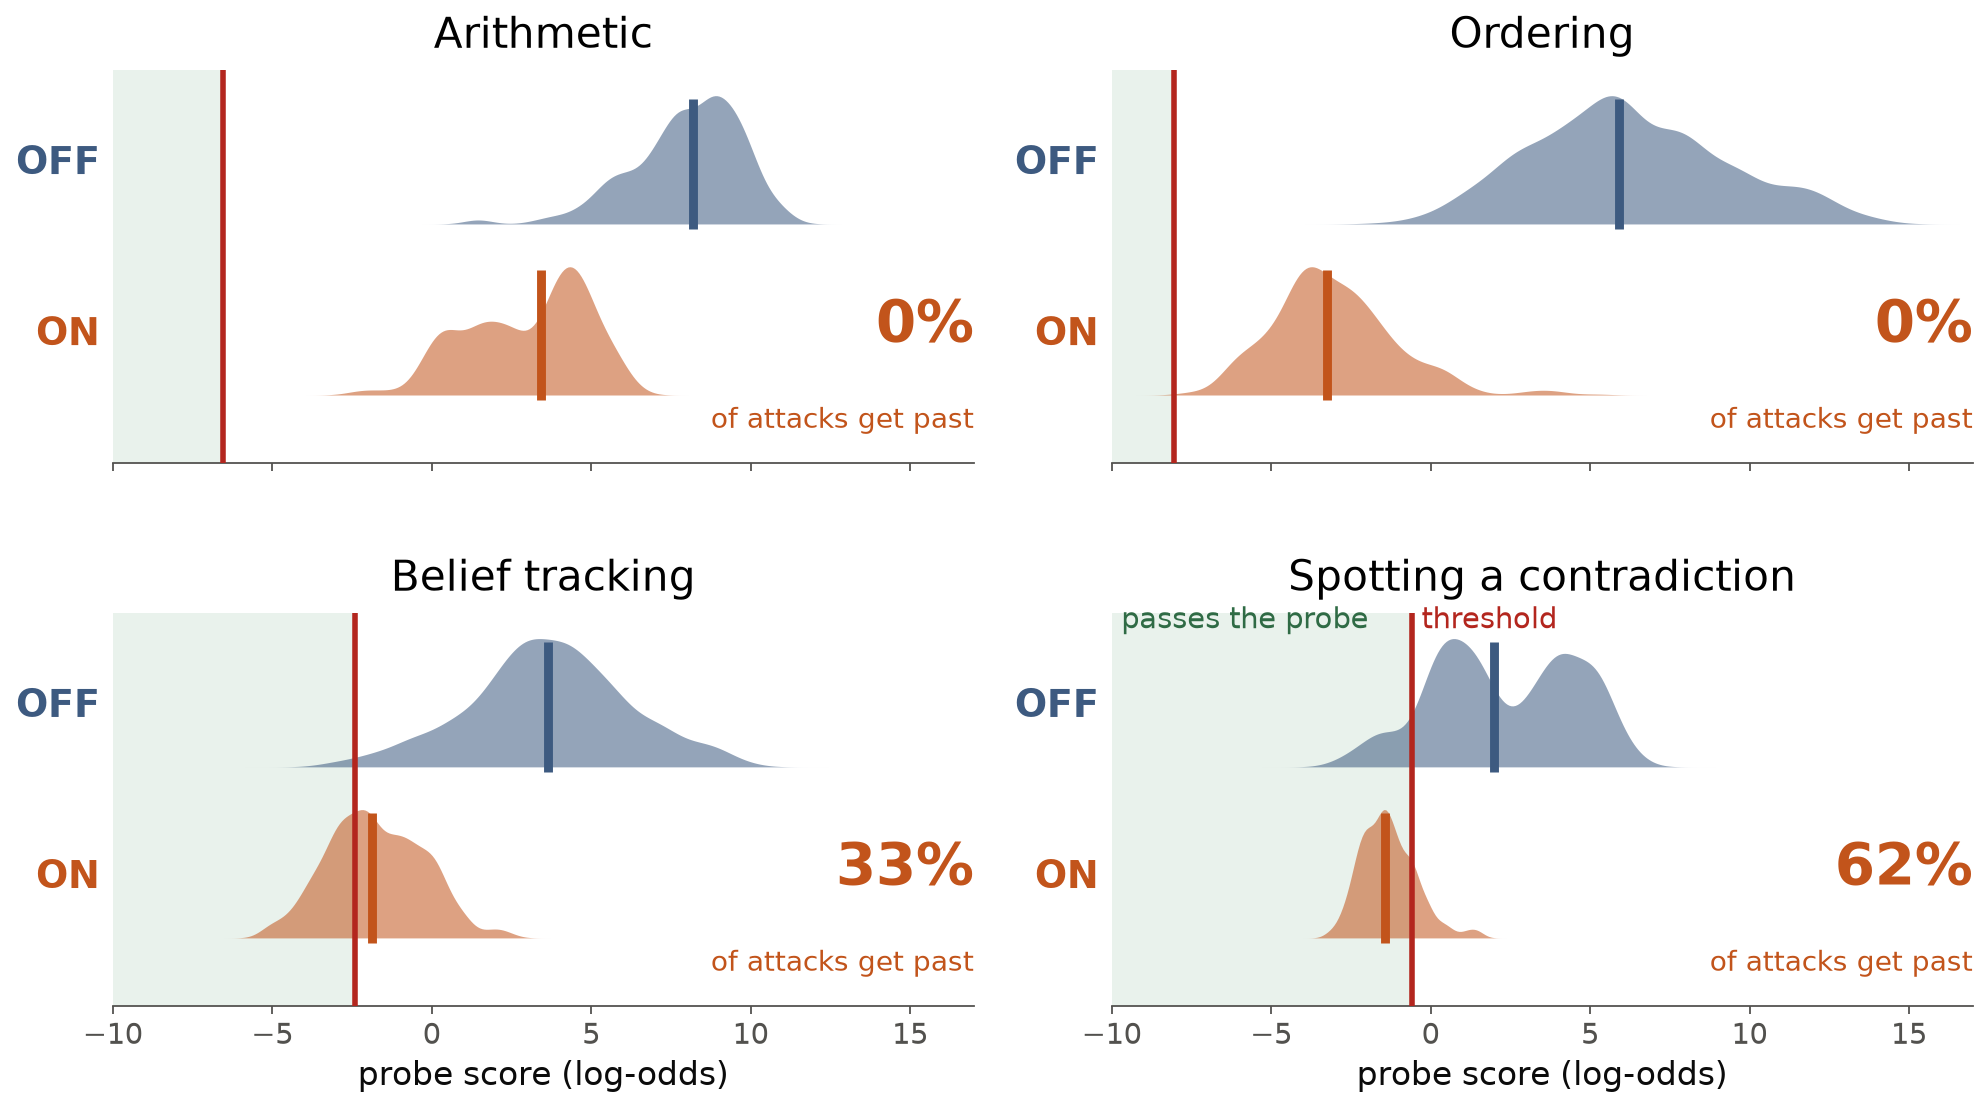
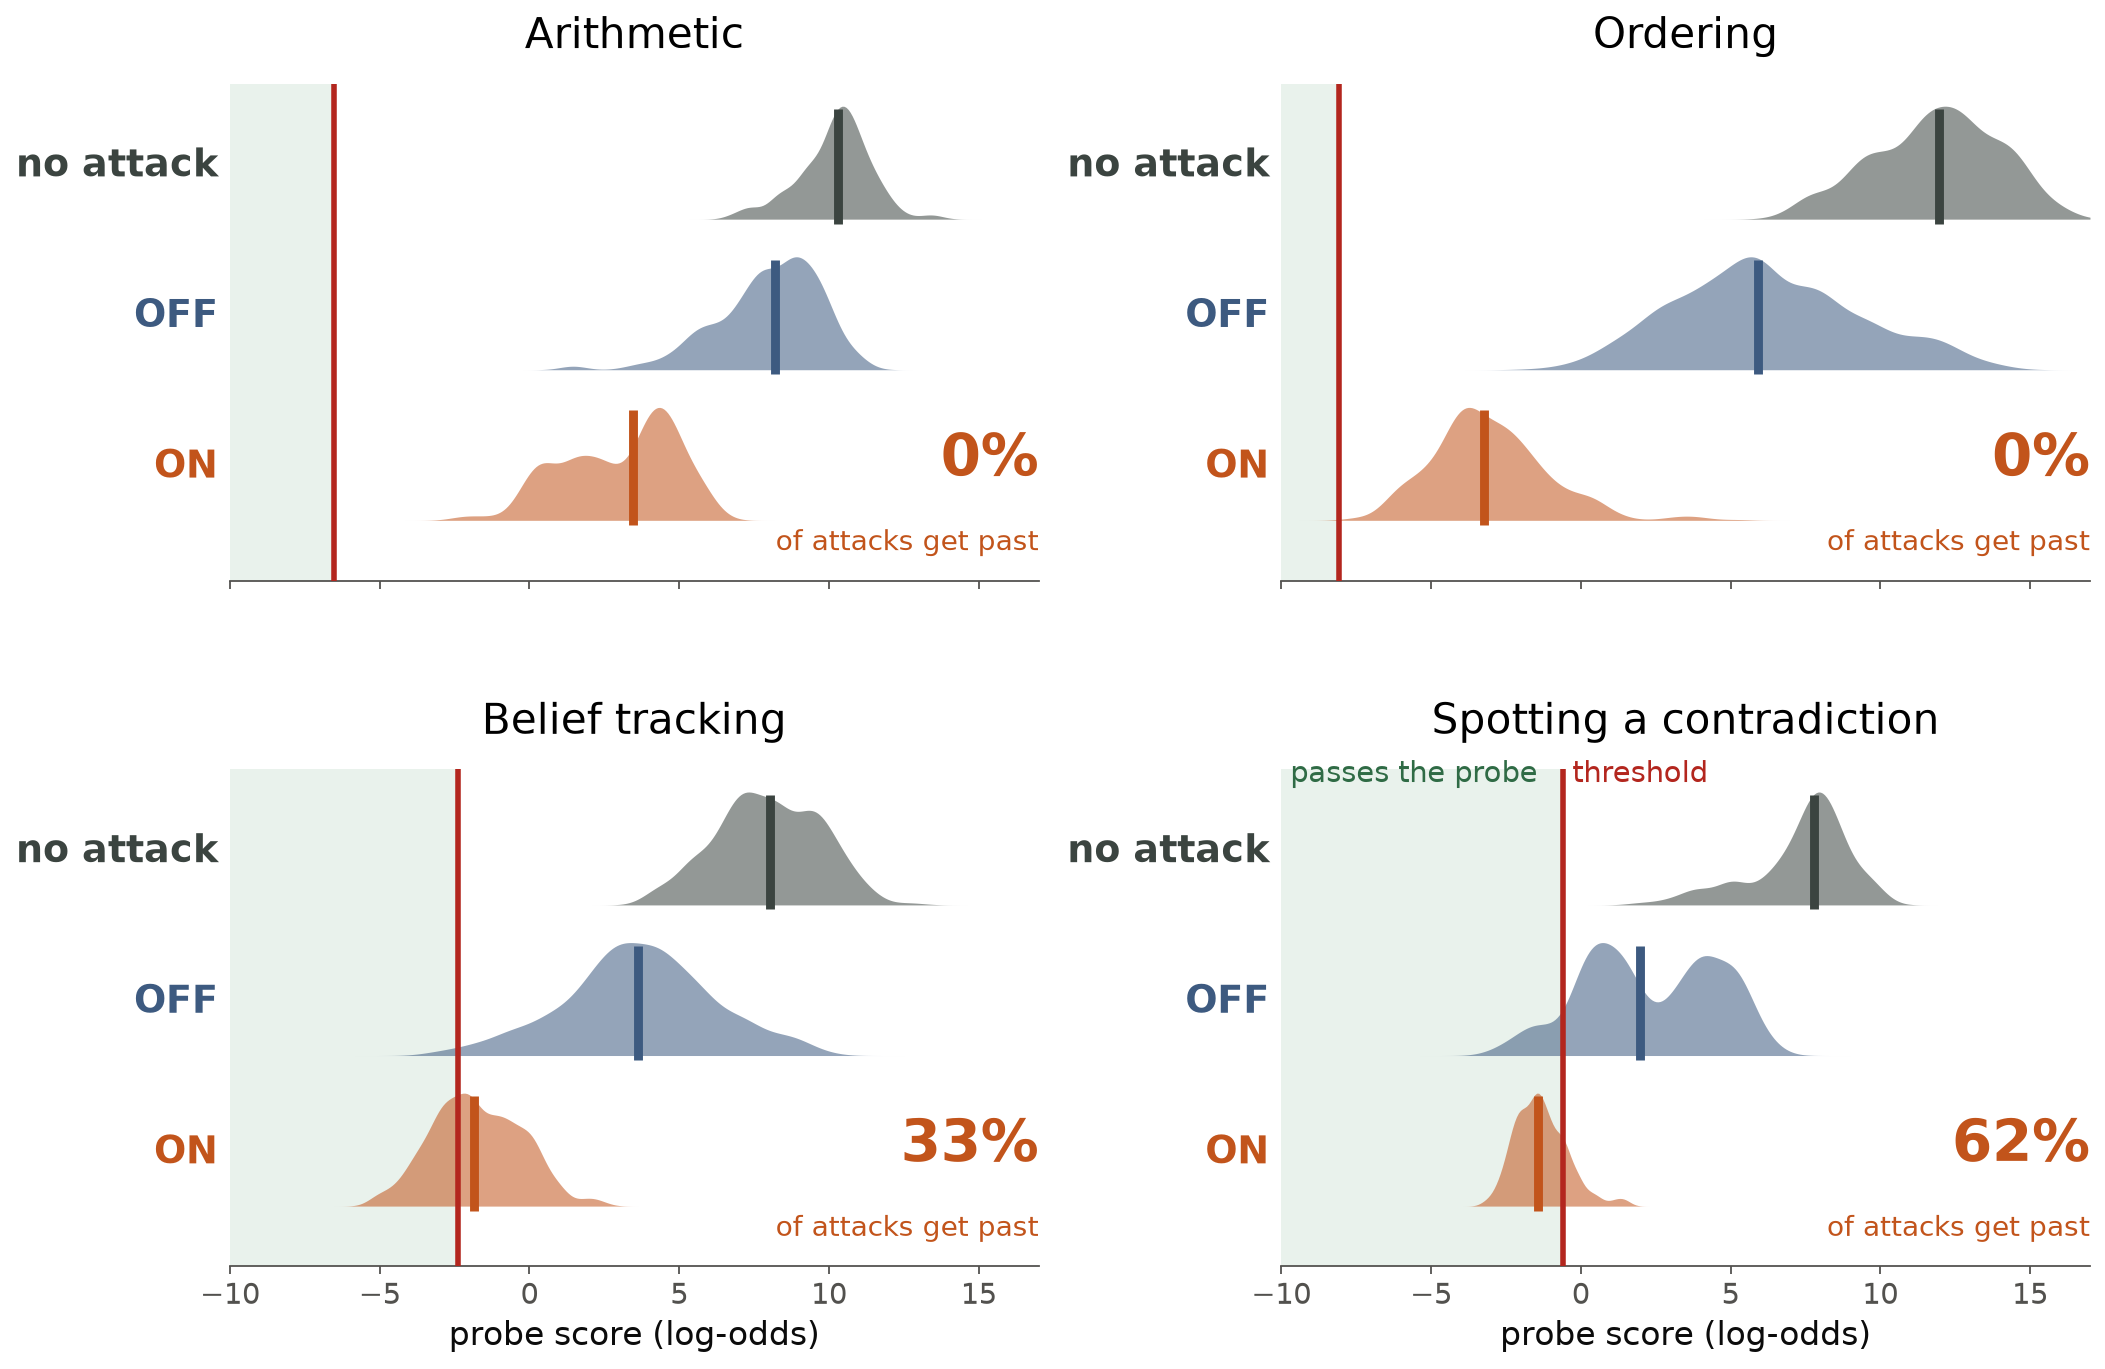
Dot plots: add the unattacked ('no attack') answers as a top row

diff --git a/analysis/post_v9/fig_dots.py b/analysis/post_v9/fig_dots.py
@@ -23,7 +23,7 @@ M45, M49 = DOTS.M45, Path("missions/m49_new_task_toggle/runs")
 WRITER, WRITER_LABEL = "fable51", "Claude Fable 5.1"
 COLOURS = FIG.EXAMPLE_COLOURS
 PASS_SHADE, PASS_TEXT = "#e9f2ec", "#2f6b45"
-ROWS = (("OFF", "off"), ("ON", "on"))  # top to bottom
+ROWS = (("no attack", "plain"), ("OFF", "off"), ("ON", "on"))  # top to bottom; "no attack" = the unattacked test answers
 X_LIMITS = (-10, 17)  # wide enough that ordering's OFF tail is not cut
 
 
@@ -60,12 +60,12 @@ def net_crossing_rate(cfg, line: float) -> float:
 
 
 def task_data(task: str, cfg) -> dict:
-    _, _, off, on = (xs for _, xs, _ in DOTS.strips(cfg))
+    _, plain, off, on = (xs for _, xs, _ in DOTS.strips(cfg))
     line = DOTS.flag_line(cfg)
     net = net_crossing_rate(cfg, line)
     reported = FIG.NUMBERS[task]["B16"]["crossings"][WRITER]["net"]
     assert abs(net - reported) < 0.005, (task, net, reported)
-    return {"off": off, "on": on, "line": line, "net": net}
+    return {"plain": plain, "off": off, "on": on, "line": line, "net": net}
 
 
 def draw_dots(ax, xs: np.ndarray, y: float, colour: str, rng) -> None:
@@ -90,7 +90,7 @@ def panel(ax, title: str, d: dict, draw, rng) -> None:
         ax.text(X_LIMITS[0] - 0.4, y, label, ha="right", va="center", fontsize=17, color=COLOURS[key], fontweight="bold")
     ax.text(X_LIMITS[1], 0.05, f"{d['net']:.0%}", ha="right", va="center", fontsize=26, color=COLOURS["on"], fontweight="bold")
     ax.text(X_LIMITS[1], -0.5, "of attacks get past", ha="right", va="center", fontsize=12.5, color=COLOURS["on"])
-    ax.set_title(title, fontsize=19, pad=10)
+    ax.set_title(title, fontsize=19, pad=16)
     ax.set_xlim(*X_LIMITS)
     ax.set_ylim(-0.75, len(ROWS) - 0.45)
     ax.set_yticks([])
@@ -102,13 +102,14 @@ def panel(ax, title: str, d: dict, draw, rng) -> None:
 def figure(draw, name: str) -> None:
     data = {k: task_data(k, cfg) for k, cfg in TASKS.items()}
     rng = np.random.default_rng(0)
-    fig, axes = plt.subplots(2, 2, figsize=(15, 7.6), sharex=True, gridspec_kw={"hspace": 0.38, "wspace": 0.16})
+    fig, axes = plt.subplots(2, 2, figsize=(15, 9.6), sharex=True, gridspec_kw={"hspace": 0.38, "wspace": 0.3})
     for ax, (k, cfg) in zip(axes.flat, TASKS.items()):
         panel(ax, cfg.title, data[k], draw, rng)
     # name the shaded region and the threshold once, in contradiction, whose shaded region is widest
     ax, line = axes[1, 1], data["contradiction"]["line"]
-    ax.text(X_LIMITS[0] + 0.3, 1.42, "passes the probe", ha="left", va="bottom", fontsize=13, color=PASS_TEXT)
-    ax.text(line + 0.3, 1.42, "threshold", ha="left", va="bottom", fontsize=13, color=COLOURS["line"])
+    top = len(ROWS) - 1 + 0.42
+    ax.text(X_LIMITS[0] + 0.3, top, "passes the probe", ha="left", va="bottom", fontsize=13, color=PASS_TEXT)
+    ax.text(line + 0.3, top, "threshold", ha="left", va="bottom", fontsize=13, color=COLOURS["line"])
     for ax in axes[1]:
         ax.set_xlabel("probe score (log-odds)", fontsize=15)
     fig.savefig(HERE / "figures" / name, dpi=160, bbox_inches="tight", facecolor="white")
